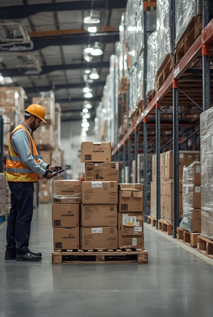
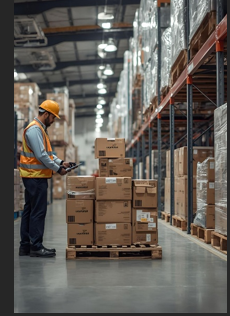
Update Sample Picking Inspection image to warehouse pallet picking photo

diff --git a/index.html b/index.html
@@ -1073,7 +1073,7 @@
         {
           id: 's15',
           name: 'Sample Picking Inspection',
-          image: 'assets/images/service-05.jpg',
+          image: 'assets/images/service-sample-picking.png',
           stageLabel: 'Pre-Shipment & Final',
           desc: 'Impartial random sampling drawn for client or laboratory testing.',
           details: 'Certified inspector witnesses and seals sample cartons from production batches for independent certified lab testing or buyer reference.'
